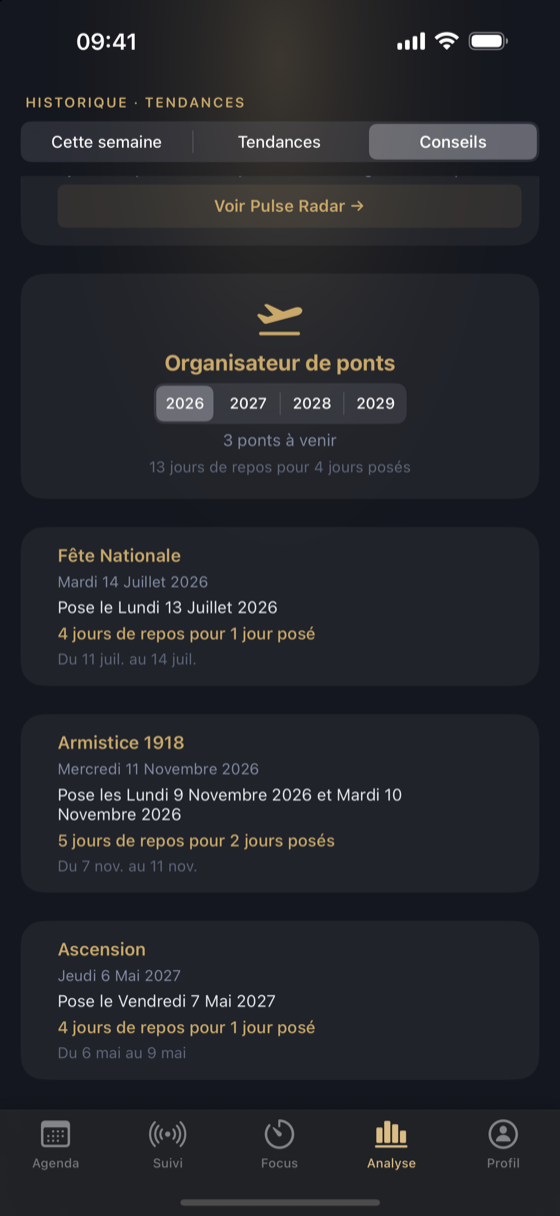
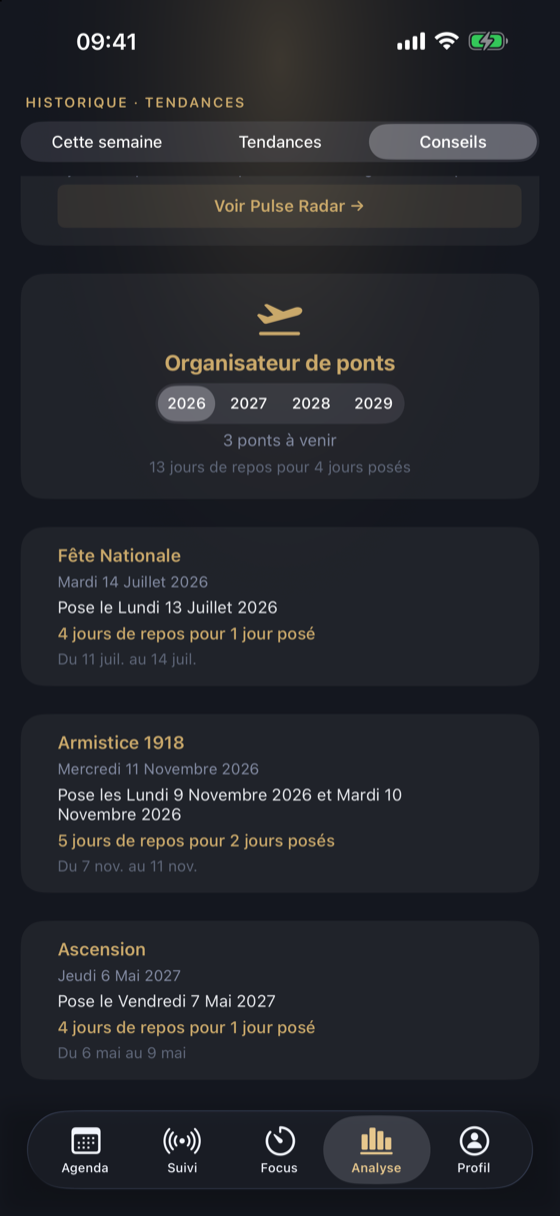
Site : Bridge Planner en iOS 26 (Organisateur de ponts, Liquid Glass) - dernier ecran aligne

diff --git a/index.html b/index.html
@@ -1714,7 +1714,7 @@
 
 <script src="src/PulseLogo.js?v=8"></script>
 <script src="src/Screens.js?v=6"></script>
-<script src="src/PhoneFrame.js?v=13"></script>
+<script src="src/PhoneFrame.js?v=14"></script>
 <script src="src/Themes.js?v=3"></script>
 <script src="src/Mount.js?v=6"></script>
 

diff --git a/src/PhoneFrame.js b/src/PhoneFrame.js
@@ -63,7 +63,7 @@ const GALLERY_FEATURES = [
     eyebrow: "Bridge Planner",
     title: "Optimise tes cong\xE9s.",
     desc: "Rep\xE8re les meilleurs ponts par pays et te dit combien poser : \xAB 1 jour pos\xE9 = 4 jours off \xBB. Les vacances scolaires sont d\xE9j\xE0 charg\xE9es.",
-    img: "assets/screens/bridge.png?v=4"
+    img: "assets/screens/bridge.png?v=5"
   },
   {
     eyebrow: "Pulse Brain \xB7 on-device",

diff --git a/src/PhoneFrame.jsx b/src/PhoneFrame.jsx
@@ -84,7 +84,7 @@ const GALLERY_FEATURES = [
     eyebrow: 'Bridge Planner',
     title: 'Optimise tes congés.',
     desc: 'Repère les meilleurs ponts par pays et te dit combien poser : « 1 jour posé = 4 jours off ». Les vacances scolaires sont déjà chargées.',
-    img: 'assets/screens/bridge.png?v=4',
+    img: 'assets/screens/bridge.png?v=5',
   },
   {
     eyebrow: 'Pulse Brain · on-device',